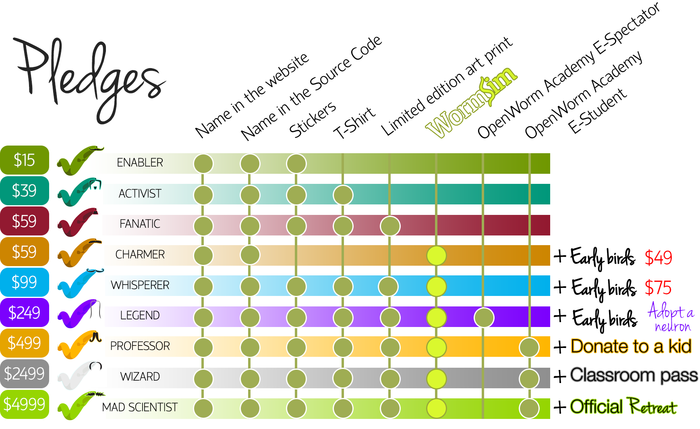
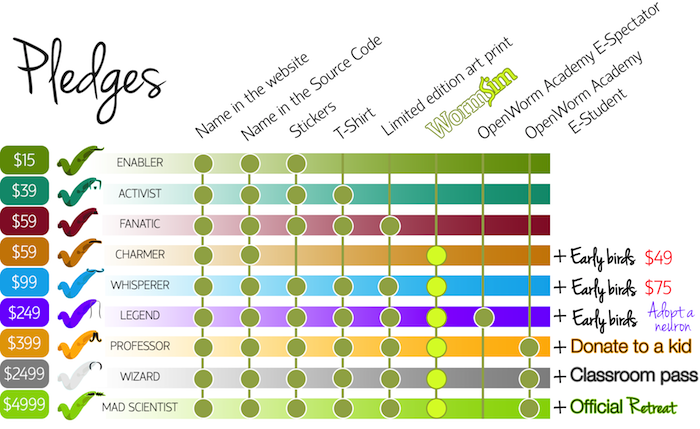
Worm professor fix

diff --git a/war/kickstarter/spanish.html b/war/kickstarter/spanish.html
@@ -161,7 +161,7 @@ Arte de Edición Limitada por el neuro-artista Matteo Farinella</h1><p>Si usted 
 <figure><img alt="" class="fit" src="./Kickstarter_files/e434f1db49b36a729772bff8b77485a2_large.png"></figure>
 </div><div class="template asset" contenteditable="false" data-edit_url="/projects/openworm/1355376406/assets/1689312/edit" data-id="1689312">
 <figure><img alt="" class="fit" src="./Kickstarter_files/832ffc20f49523166b94150759ee1708_large.jpg"></figure>
-</div><h1>Si apoya las simulaciones para niños </h1><p> Haga un donativo de $399 como Aprendiz de Gusano y además de sus regalos, donaremos una simulación completa a un niño que elegiremos al azar por medio de una lotería. &nbsp; Si desea patrocinar con un donativo que brinda acceso a todo un salón de clases completo, conviértase en Gusano Mago por $4999. &nbsp; Inclusive podrá ser usted quien elija qué grupo sea el que participe!</p><div class="template asset" contenteditable="false" data-edit_url="/projects/openworm/1355376406/assets/1689173/edit" data-id="1689173">
+</div><h1>Si apoya las simulaciones para niños </h1><p> Haga un donativo de $399 como Aprendiz de Gusano y además de sus regalos, donaremos una simulación completa a un niño que elegiremos al azar por medio de una lotería. &nbsp; Si desea patrocinar con un donativo que brinda acceso a todo un salón de clases completo, conviértase en Gusano Mago por $3999. &nbsp; Inclusive podrá ser usted quien elija qué grupo sea el que participe!</p><div class="template asset" contenteditable="false" data-edit_url="/projects/openworm/1355376406/assets/1689173/edit" data-id="1689173">
 <figure><img alt="" class="fit" src="./Kickstarter_files/adf4833034c5b43590735ae85efd124b_large.png"></figure>
 </div><h1>
 Orgullosamente fuente abierta &nbsp;</h1><p>Nuestra comunidad de ciencia abierta se basa en principios de fuente abierta. &nbsp;<a href="http://docs.openworm.org/en/0.5/Community/repositories.html#repositories" target="_blank">Todo nuestro código se publica por medio de una licencia de MIT</a>. &nbsp;Sin embargo, únicamente aquellos que nos respaldan tendrán la facilidad y la conveniencia de obtenerlo por medio de una aplicación web con 99% de tiempo activo en la red y respaldado por las mejores tecnologías computacionales de nube.</p><div class="template asset" contenteditable="false" data-edit_url="/projects/openworm/1355376406/assets/1603233/edit" data-id="1603233">
@@ -349,7 +349,7 @@ Tiempo Aproximado de Entrega: 06-2015
 </li>
 <li class="NS-projects-reward">
 <h5>
-Donativo de $499 o más
+Donativo de $399 o más
 </h5>
 <div class="desc">
 <p class="small_type">Gusano Profesor – Recibirá reconocimiento en openworm.org y en el código abierto de gusano, recibirá su propio WormSim por un año y encima de todo eso recibirá una boleto digital de entrada al salón de clases, proporcionándole atención personalizada en la Academia OpenWorm, un curso interactivo en línea que le llevará paso a paso por toda la ciencia y tecnología de punta detrás del OpenWorm! Además... podrá donar la simulación a un niño afortunado que usted mismo podrá elegir (o si nos permite, nosotros lo sortearemos), convirtiéndolo a usted en un Gusano Profesor! Ah, y vamos a agregar todos los demás regalos para endulzar la oferta: las calcomanías, litografía de edición limitada, camiseta.</p>

diff --git a/war/kickstarter/russian.html b/war/kickstarter/russian.html
@@ -246,7 +246,7 @@ OpenWorm дает миру доступ к новейшим достижения
 </div><h1>
 Поддержите возможность доступа к симулятору для детей
 </h1><p>
-Поддержите проект в размере $499 как Worm Professor и в качестве дополнительной награды мы предоставим симуляцию ребенку на ваш выбор (или победителю лотереи, которую мы проведем). Если вы хотите предоставить симуляцию для целого класса, станьте Worm Wizard за $2499. Вы даже можете выбрать классную комнату!
+Поддержите проект в размере $399 как Worm Professor и в качестве дополнительной награды мы предоставим симуляцию ребенку на ваш выбор (или победителю лотереи, которую мы проведем). Если вы хотите предоставить симуляцию для целого класса, станьте Worm Wizard за $2499. Вы даже можете выбрать классную комнату!
 </p><div class="template asset" contenteditable="false" data-edit_url="/projects/openworm/1355376406/assets/1689173/edit" data-id="1689173">
 <figure><img alt="" class="fit" src="./Kickstarter_files/adf4833034c5b43590735ae85efd124b_large.png"></figure>
 </div><h1>
@@ -455,7 +455,7 @@ $249 или больше
 </li>
 <li class="NS-projects-reward">
 <h5>
-$499 или больше
+$399 или больше
 </h5>
 <div class="desc">
 <p class="small_type">Worm Professor - вы получаете ваш персональный WormSim сроком на 1 год,  упоминание на openworm.org и в исходном коде, набор стикеров OpenWorm, футболку OpenWorm, принт OpenWorm ограниченной серии и  электронный билет (e-ticket), предоставляющий вам место и персональное внимание в классе Академии OpenWorm - интерактивном онлайн видеокурсе, рассказывающем о научных и технологических аспектах, задействованных в OpenWorm. И … возможность предоставить доступ к симуляции любому ребенку по вашему выбору (или позволить нам сделать случайный выбор), что делает вас Профессором OpenWorm.</p>

diff --git a/war/kickstarter/kickstarter.html b/war/kickstarter/kickstarter.html
@@ -161,7 +161,7 @@ Custom limited edition art by neuro-artist Matteo Farinella</h1><p>Back the camp
 <figure><img alt="" class="fit" src="./Kickstarter_files/e434f1db49b36a729772bff8b77485a2_large.png"></figure>
 </div><div class="template asset" contenteditable="false" data-edit_url="/projects/openworm/1355376406/assets/1689312/edit" data-id="1689312">
 <figure><img alt="" class="fit" src="./Kickstarter_files/832ffc20f49523166b94150759ee1708_large.jpg"></figure>
-</div><h1>Support simulations for kids</h1><p>Pledge $399 as a Worm Apprentice and in addition to your rewards, we'll donate a full simulation to a kid in a lottery we'll hold. &nbsp;If you'd like to donate access for a whole classroom, be a Worm Wizard at $4999. &nbsp;You can even choose the classroom!</p><div class="template asset" contenteditable="false" data-edit_url="/projects/openworm/1355376406/assets/1689173/edit" data-id="1689173">
+</div><h1>Support simulations for kids</h1><p>Pledge $399 as a Worm Apprentice and in addition to your rewards, we'll donate a full simulation to a kid in a lottery we'll hold. &nbsp;If you'd like to donate access for a whole classroom, be a Worm Wizard at $3999. &nbsp;You can even choose the classroom!</p><div class="template asset" contenteditable="false" data-edit_url="/projects/openworm/1355376406/assets/1689173/edit" data-id="1689173">
 <figure><img alt="" class="fit" src="./Kickstarter_files/adf4833034c5b43590735ae85efd124b_large.png"></figure>
 </div><h1>
 Proudly open source&nbsp;</h1><p>Our open science community is built on the foundations of open source principles. &nbsp;<a href="http://docs.openworm.org/en/0.5/Community/repositories.html#repositories" target="_blank">All our code is released via MIT license</a>. &nbsp;However, only our backers will have the ease and convenience of having it all put together for you in a web application with 99% uptime and backed by the best cloud computing technologies.</p><div class="template asset" contenteditable="false" data-edit_url="/projects/openworm/1355376406/assets/1603233/edit" data-id="1603233">
@@ -462,7 +462,7 @@ Estimated delivery:
 <li class="NS-projects-reward">
 <h5>
 Pledge
-<span class="money usd ">$499</span>
+<span class="money usd ">$399</span>
 or more
 </h5>
 <span class="indicator you-selected">

diff --git a/war/kickstarter/Kickstarter_files/wymiframe.html b/war/kickstarter/Kickstarter_files/wymiframe.html
@@ -97,7 +97,7 @@ Custom limited edition art by neuro-artist Matteo Farinella</h1><p>Back the camp
 <figure><img alt="" class="fit" src="e434f1db49b36a729772bff8b77485a2_large.png"></figure>
 </div><p>&nbsp;</p><div class="template asset" contenteditable="false" data-edit_url="/projects/openworm/1355376406/assets/1689312/edit" data-id="1689312">
 <figure><img alt="" class="fit" src="832ffc20f49523166b94150759ee1708_large.jpg"></figure>
-</div><h1>Support simulations for kids</h1><p>Pledge $399 as a Worm Apprentice and in addition to your rewards, we'll donate a full simulation to a kid in a lottery we'll hold. &nbsp;If you'd like to donate access for a whole classroom, be a Worm Wizard at $4999. &nbsp;You can even choose the classroom!</p><div class="template asset" contenteditable="false" data-edit_url="/projects/openworm/1355376406/assets/1689173/edit" data-id="1689173">
+</div><h1>Support simulations for kids</h1><p>Pledge $399 as a Worm Apprentice and in addition to your rewards, we'll donate a full simulation to a kid in a lottery we'll hold. &nbsp;If you'd like to donate access for a whole classroom, be a Worm Wizard at $3999. &nbsp;You can even choose the classroom!</p><div class="template asset" contenteditable="false" data-edit_url="/projects/openworm/1355376406/assets/1689173/edit" data-id="1689173">
 <figure><img alt="" class="fit" src="adf4833034c5b43590735ae85efd124b_large.png"></figure>
 </div><h1>
 Proudly open source&nbsp;</h1><p>Our open science community is built on the foundations of open source principles. &nbsp;<a href="http://docs.openworm.org/en/0.5/Community/repositories.html#repositories" target="_blank">All our code is released via MIT license</a>. &nbsp;However, only our backers will have the ease and convenience of having it all put together for you in a web application with 99% uptime and backed by the best cloud computing technologies.</p><div class="template asset" contenteditable="false" data-edit_url="/projects/openworm/1355376406/assets/1603233/edit" data-id="1603233">
